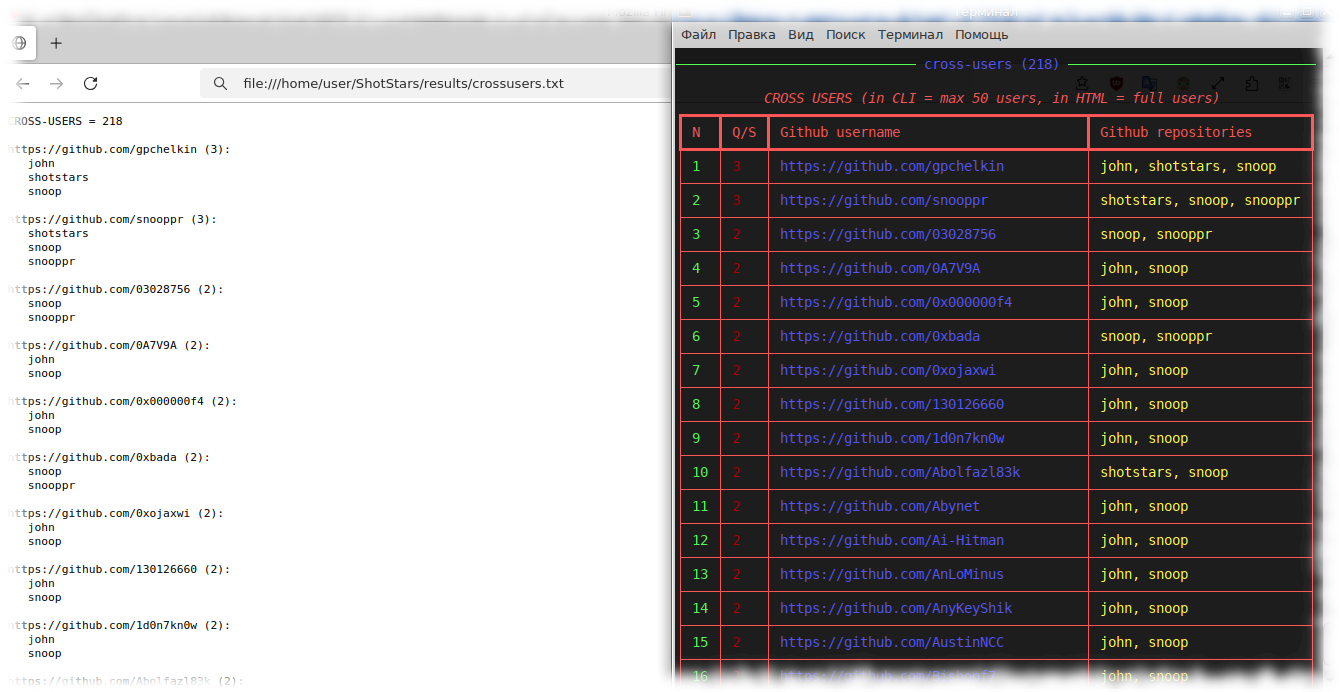
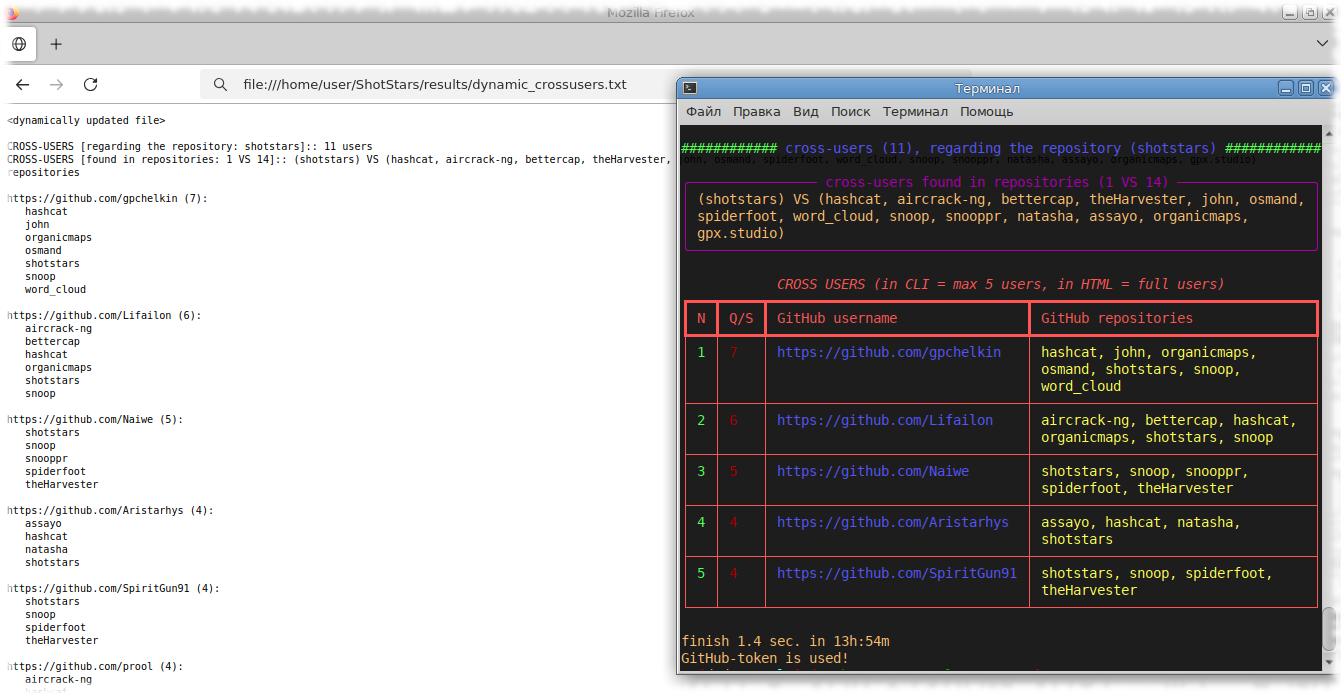
New v2.7.
— The algorithm for counting cross-users has been fixed
(previously, all possible intersections in scanned repositories were counted, now only users
relative to the selected, scanned repository are counted, Information about repositories has
been added to the CLI panel and HTML report).

— Added a notification to the CLI that report.html is not generated if Shotstars did not detect
any star movement, i.e. no stars were added or subtracted.

— Removed duplicate hint in Russian.

Changed region(s): [[0.0, 0.0, 1.0, 1.0]]

diff --git a/shotstars/shotstars.py b/shotstars/shotstars.py
@@ -37,7 +37,7 @@ console.print(r"""[yellow]
 / ___|| |__   ___ | |_  / ___|| |_ __ _ _ __ ___
 \___ \| '_ \ / _ \| __| \___ \| __/ _` | '__/ __|
  ___) | | | | (_) | |_   ___) | || (_| | |  \__ \
-|____/|_| |_|\___/ \__| |____/ \__\__,_|_|  |___/[/yellow]  v2.6, author: https://github.com/snooppr
+|____/|_| |_|\___/ \__| |____/ \__\__,_|_|  |___/[/yellow]  v2.7, author: https://github.com/snooppr
 """)
 
 
@@ -51,7 +51,7 @@ def main_cli():
 
     global url_repo, repo, repo_api, path
     try:
-        console.print("Enter [bold green]url[/bold green] (Repository On Github) or '[bold green]history[/bold green]': ",
+        console.print("Enter [bold green]url[/bold green] (Repository On GitHub) or '[bold green]history[/bold green]': ",
                       highlight=False, end="")
         url_repo = input("")
     except KeyboardInterrupt:
@@ -93,12 +93,9 @@ def main_cli():
             check_token()
             parsing(diff=True)
         else:
-            console.print(f"\n<[bold magenta]EN[/bold magenta]>[bold green] A new repository has been added to the tracking " + \
+            console.print(f"\n[bold green]A new repository has been added to the tracking " + \
                           f"database: '[/bold green][cyan]{repo}[/cyan][bold green]'.\nOn subsequent/re-scanning of the " + \
-                          f"repository, 'ShotStars' will attempt to calculate stars.[/bold green]" + \
-                          f"\n<[bold magenta]RU[/bold magenta]>[bold green] В БД для отслеживания добавлен новый репозиторий: " + \
-                          f"'[/bold green][cyan]{repo}[/cyan][bold green]'.\nПри последующем/повторном сканировании репозитория " + \
-                          f"'ShotStars' будет пытаться вычислять звезды.[/bold green]", highlight=False)
+                          f"repository, 'ShotStars' will attempt to calculate stars.[/bold green]", highlight=False)
             his()
             check_token()
             parsing()
@@ -110,73 +107,57 @@ def main_cli():
             os.kill(os.getpid(), signal.SIGKILL)
 
 
-def cross_user_detect(base_dir, filename="new.txt"):
+def cross_user_detect(base_users):
     """
     Последовательно читаем файлы с указанным именем из ВСЕХ подкаталогов,
     находим минимум 2-х перекрестных user-ов, встречающихся более чем в одном файле.
-    Использует os.scandir для эффективности поиска каталогов.
-
-    Аргументы:
-        base_dir (str): Базовый каталог, содержащий подкаталоги для поиска.
-        filename (str): Имя файла для чтения в каждом подкаталоге.
-    Результат:
-        Словарь, где ключи — username, а значения — кортежи
-              с именами каталогов/репозиториев, где найдено слово.
-              Пример: {"snooppr": ("snooppr", "snoop", "shotstars")}
     """
-    user_repos = defaultdict(set)
-    subdirectories_repos = []
-    try:
-        with os.scandir(base_dir) as directory:
-            for dir_ in directory:
-                if dir_.is_dir():
-                    subdirectories_repos.append(dir_.name)
-    except Exception as e:
-        console.print(f"[bold red]ERR, no access?: {base_dir}:: {e}[/bold red]")
-        return {}
+    cross_user = defaultdict(set)
+    base_dir = os.path.join(os.path.dirname(path))
 
-    if not subdirectories_repos:
-        console.print(f"[bold red]Shotstars DB not found[/bold red]")
-        return {}
+    for dir_ in os.scandir(base_dir):
+        if dir_.is_dir():
+            subfile_path = os.path.join(dir_.path, "new.txt")
+            if os.path.isfile(subfile_path):
+                with open(subfile_path, 'r', encoding='utf-8') as f:
+                    git_users = set(f.read().splitlines())
+                    for user in base_users:
+                        if user in git_users:
+                            cross_user[user].add(dir_.name)
 
-    for sub_repo in sorted(subdirectories_repos):
-        file_path = os.path.join(base_dir, sub_repo, filename)
-
-        try:
-            with open(file_path, 'r', encoding='utf-8') as f:
-                for user in f.read().splitlines():
-                    user = user.strip()
-                    if user:
-                        user_repos[user].add(sub_repo)
-        except FileNotFoundError:
-            console.print(f"[bold red]File '{filename}' not found in directory '{sub_repo}'[/bold red]")
-        except Exception as e:
-            console.print(f"[bold red]Error reading file {file_path}: {e}[/bold red]")
-
-    # Фильтруем user/repo до 2-х и боле резуьтатов (ключи: user, значения: кортежи-repo)
-    common_users = {}
-    for k, v in user_repos.items():
+    common_users = {} # Фильтруем user/repo до 2-х и боле резуьтатов (ключи: user, значения: кортежи-repo).
+    common_repo = set()
+    for k, v in cross_user.items():
         if len(v) > 1:
+            common_repo.update(v)
             common_users[k] = tuple(sorted(list(v)))
 
+    common_repo.discard(repo)
+
     if common_users:
-        console.rule(f"[bold blue]cross-users ({len(common_users)})[/bold blue]", characters="#")
+        console.rule(f"[bold blue]cross-users ({len(common_users)}), regarding the repository ({repo})[/bold blue]", characters="#")
+        print("")
+        console.print(Panel.fit(f"({repo}) VS ({', '.join(common_repo)})",
+                                title=f"cross-users found in repositories (1 VS {len(common_repo)})",
+                                border_style="magenta"))
 
         padding = 0 if Android else (0, 1)
         table_his = Table(title=f"\n[bold red]CROSS USERS (in CLI = max 5 users, in HTML = full users)[/bold red]",
                           title_justify="center", header_style='bold red', style="bold red", padding=padding, show_lines=True)
         table_his.add_column("N", justify="left", style="bold green", no_wrap=False)
         table_his.add_column("Q/S", justify="left", style="red", no_wrap=False)
-        table_his.add_column("Github username", justify="left", style="bold blue", overflow="fold", no_wrap=False)
-        table_his.add_column("Github repositories", justify="left", style="bold yellow", overflow="fold", no_wrap=False)
+        table_his.add_column("GitHub username", justify="left", style="bold blue", overflow="fold", no_wrap=False)
+        table_his.add_column("GitHub repositories", justify="left", style="bold yellow", overflow="fold", no_wrap=False)
 
         sorted_items = sorted(common_users.items(), key=lambda item: (-len(item[1]), item[0]))
         for N, (username, repository) in enumerate(sorted_items[:5], 1):
             table_his.add_row(str(N), str(len(repository)), f'https://github.com/{username}', ", ".join(repository))
         console.print(table_his)
 
-        with open(os.path.join(os.path.dirname(path), "crossusers.txt"), "w", encoding="utf-8") as f:
-            f.write(f"CROSS-USERS = {len(common_users)}\n\n")
+        with open(os.path.join(os.path.dirname(path), "dynamic_crossusers.txt"), "w", encoding="utf-8") as f:
+            f.write(f"<dynamically updated file>\n\n")
+            f.write(f"CROSS-USERS [regarding the repository: {repo}]:: {len(common_users)} users\n")
+            f.write(f"CROSS-USERS [found in repositories: 1 VS {len(common_repo)}]:: ({repo}) VS ({', '.join(common_repo)}) repositories\n\n")
             for username, repository in sorted_items:
                 print(f"https://github.com/{username} ({len(repository)}):\n  ", '\n   '.join(repository), '\n', file=f)
 
@@ -383,14 +364,17 @@ def dif_time():
     return f"{delta.days}d. {(datetime.datetime.fromtimestamp(0, tz=datetime.timezone.utc) + delta).strftime('%Hh. %Mm.')}"
 
 
-def finish(token, stars=None):
+def finish(token, stars=None, report=None):
     """Финишное время, проверка наличие/отсутствие токена и заполнение истории сканирований."""
-    print('\nfinish', round(time.perf_counter() - time_start, 1), 'sec. in', timeout())
+    print('\nFinish', round(time.perf_counter() - time_start, 1), f"sec, in {timeout()}.")
+
+    if not report:
+        print("Report.html not created, no movement of stars.")
 
     if token == "None":
-        print("Github token not provided.")
+        print("GitHub token not provided.")
     elif token != "None":
-        print("Github-token is used!")
+        print("GitHub-token is used!")
 
     with open(os.path.join(os.path.dirname(path), "history.json"), "r") as his_r:
         his_file = json.load(his_r)
@@ -412,9 +396,9 @@ def limited(req, token):
     console.print("\n[bold red]Attention! The API limit has probably been exceeded, the block will presumably be lifted:",
                   time.strftime('%Y-%m-%d_%H:%M', time.localtime(headers_time)), f"::: ({minut} min.)")
     if token == "None":
-        console.print(Panel.fit("Limitations: ~limit max '30 requests/hour' or '6000 stars/hour'", title="Github API/No Token"))
+        console.print(Panel.fit("Limitations: ~limit max '30 requests/hour' or '6000 stars/hour'", title="GitHub API/No Token"))
     else:
-        console.print(Panel.fit("Limitations: ~limit max '500K stars/hour'", title="Github API/Token Used"))
+        console.print(Panel.fit("Limitations: ~limit max '500K stars/hour'", title="GitHub API/Token Used"))
 
     win_exit()
 
@@ -536,7 +520,7 @@ def parsing(diff=False):
     config.read(os.path.join(os.path.dirname(path), "config.ini"))
     token = config.get('Shotstars', 'token')
     if token != "None":
-        head = {'User-Agent': f'Shotstars v2.6', 'Authorization': f'Bearer {token}'}
+        head = {'User-Agent': f'Shotstars v2.7', 'Authorization': f'Bearer {token}'}
     elif token == "None":
         head = {'User-Agent': f'Mozilla/5.0 (X11; Linux x86_64; rv:{random.randint(119, 127)}.0) Gecko/20100101 Firefox/121.0'}
 
@@ -575,17 +559,17 @@ def parsing(diff=False):
             push_ = "BAD!"
         title_repo = "No repository description available" if r.get('description') is None else r.get('description')
         console.print(f"\n[cyan]Size::[/cyan] ~ {size_repo} Mb" + \
-                      f"\n[cyan]Github-rating::[/cyan] {stars} stars" + \
+                      f"\n[cyan]GitHub-rating::[/cyan] {stars} stars" + \
                       f"\n[cyan]Date-of-creation::[/cyan] {created_at}" + \
                       f"\n[cyan]Date-update (including hidden update)::[/cyan] {push_}" + \
                       f"\n[cyan]Repository-description::[/cyan] {title_repo}\n", highlight=False)
     except Exception:
-        console.print('[red]Check Github api (buggy).\nReport issue to developer: "https://github.com/snooppr/shotstars/issues"')
+        console.print('[red]Check GitHub api (buggy).\nReport issue to developer: "https://github.com/snooppr/shotstars/issues"')
         win_exit()
 
     if token == "None" and pages > 60:
         console.print("\n[bold yellow][!] Shotstars does not process repositories with stars > 6K+ without a github token " + \
-                      "by default.\nUsing a free github token, the limits are significantly increased\n(500K+ stars/hour or " + \
+                      "by default.\nUsing a free GitHub token, the limits are significantly increased\n(500K+ stars/hour or " + \
                       "max scanned repository with 40K stars). " + \
                       "\n\nView Readme: https://github.com/snooppr/shotstars#%EF%B8%8F-github-restrictions[/bold yellow]")
         shutil.rmtree(path, ignore_errors=True)
@@ -649,7 +633,7 @@ def parsing(diff=False):
                 data = agregated_date(html_file)
                 generate_plots(data, html_file)
 
-            common_users_found = cross_user_detect(os.path.join(os.path.dirname(path)), "new.txt" )
+            common_users_found = cross_user_detect(set(lst_new))
 
             finish(token, stars)
             win_exit()
@@ -712,14 +696,14 @@ transition: transform 0.15s}
                                 "</div>\n</div>\n\n<br>\n<span class='donate' " + \
                                 "style='color: white; text-shadow: 0px 0px 20px #333333'>" + \
                                 f"<small><small>\n💾 Size:: ~ {size_repo} Mb\n<br>" + \
-                                f"✨ Github-rating:: {stars} stars<br>\n⏳ Date-of-creation:: {created_at}<br>\n" + \
+                                f"✨ GitHub-rating:: {stars} stars<br>\n⏳ Date-of-creation:: {created_at}<br>\n" + \
                                 f"⌛ Date-update (including hidden update):: {push_}<br>\n" + \
                                 f"📖 Repository-description:: {title_repo}</small></small></span><br>\n" + \
                                 "<br>\n<span class='donate' style='color: white; text-shadow: 0px 0px 20px #333333'>" + \
                                 "<small><small>╭📅 Changes over the past " + \
                                 f"({dif_time()}): <br>├──{date}<br>└──{time.strftime('%Y-%m-%d_%H:%M', time.localtime())}" + \
                                 "</small></small></span>\n\n<div>\n<br>\n" + \
-                                f"<a class='but' href='file://{path.replace(repo, '')}crossusers.txt' " + \
+                                f"<a class='but' href='file://{path.replace(repo, '')}dynamic_crossusers.txt' " + \
                                 "title='open all cross-users'>open all cross-users</a>\n</div>\n\n<p style='color: white'><small>" + \
                                 "Software developed for a competition<br>©Author: <a href='https://github.com/snooppr' " + \
                                 "target='blank'><img align='center' src='https://github.githubassets.com/favicons/favicon.svg' " + \
@@ -748,14 +732,14 @@ transition: transform 0.15s}
                 generate_plots(data, html_file)
 
 # Искать пересеченных пользователей.
-            common_users_found = cross_user_detect(os.path.join(os.path.dirname(path)), "new.txt" )
+            common_users_found = cross_user_detect(set(lst_new))
 
             try:
                 webbrowser.open(f"file://{path}/report.html")
             except Exception:
                 console.print("[bold red]It is impossible to open the web browser due to problems with the operating system.")
 
-    finish(token, stars)
+    finish(token, stars, report=True)
     win_exit()
 
 # Arbeiten.
